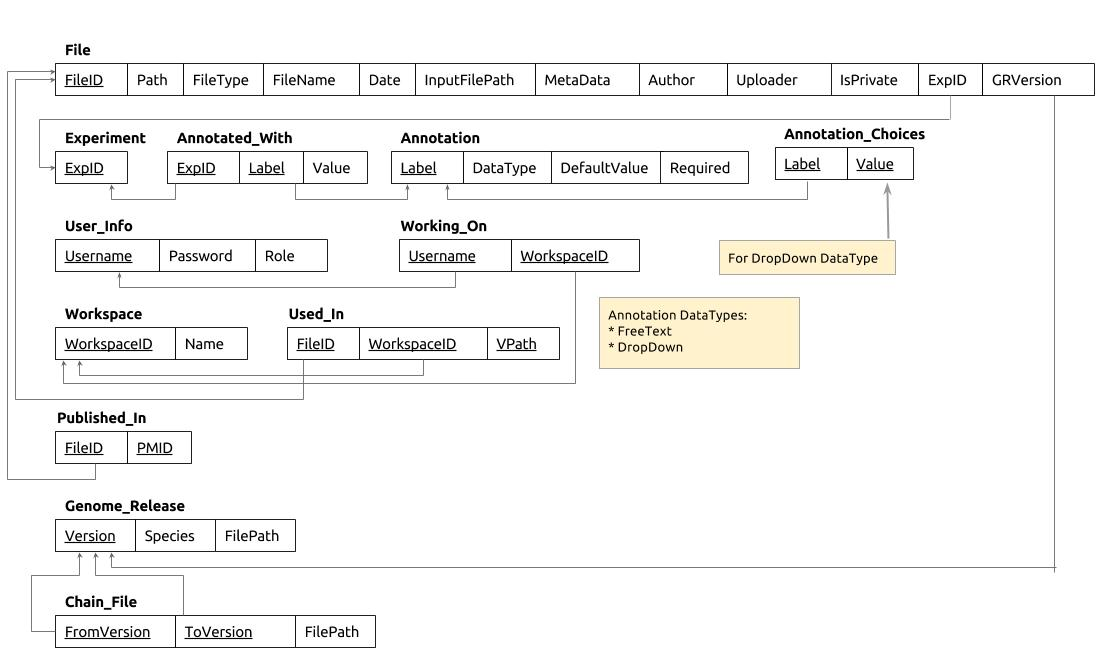
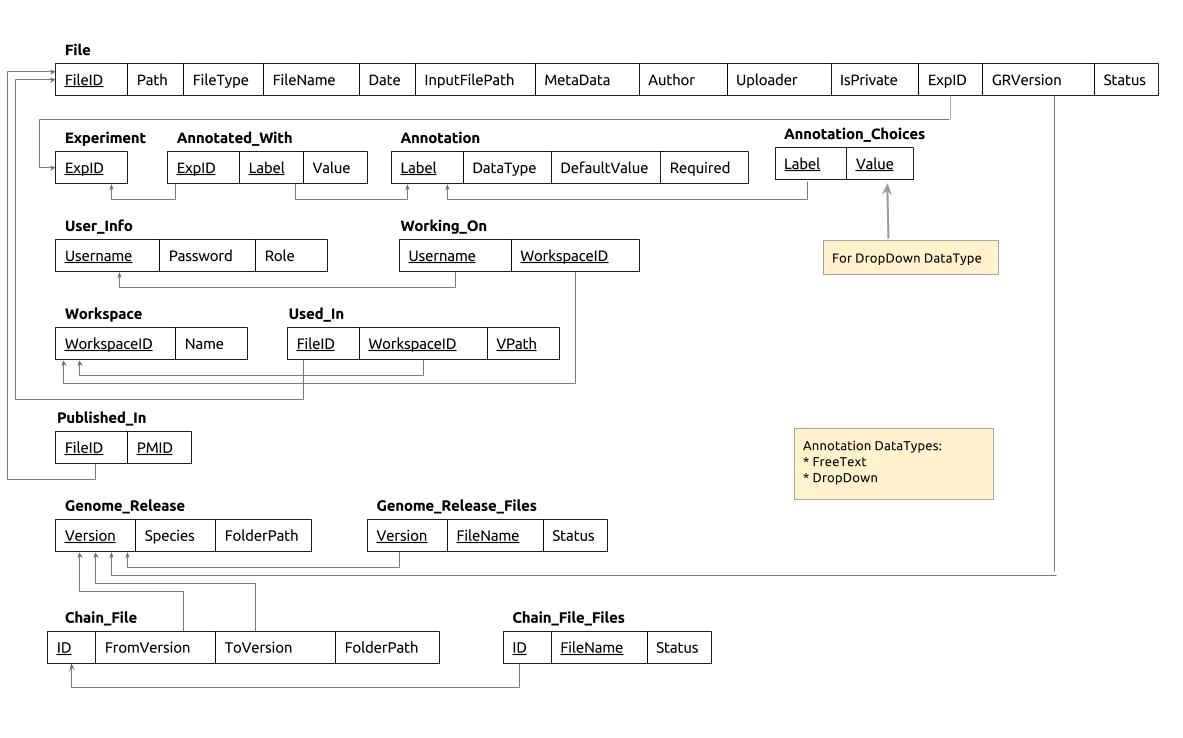
The final documentationparts for sprint 3//Datastoragegroup.

diff --git a/system_design/dat_systemdesign.tex b/system_design/dat_systemdesign.tex
@@ -1,5 +1,76 @@
-Our system for the file storage is basically built up with a database and a file system, where the header information of a file is stored in the database and the real file is stored in the filesystem. A filepath string is stored in the database as “path”, so the user can find where the actual file is stored in the filesystem. You can see the database design in the schema below (\refer{fig:dat_databaseSchema} ). \\
+%
+% Contains the systemdesign part, where we bring up the communication that might be hard to learn just by looking at the class methods name, where for example methods mut be called in a specific way.
+% Mattias Hinnerson
+% 2014-05-09 16:00
+%
+% Version 1.0
+%
 
+\documentclass[a4paper]{report}
+
+\usepackage[english]{babel}
+\usepackage[T1]{fontenc}
+\usepackage[utf8]{inputenc}
+\usepackage{amsmath}
+\usepackage{graphicx}
+\usepackage{pifont}
+\usepackage{hyperref}
+\usepackage{listings}
+\usepackage[section]{placeins}
+\usepackage[usenames,dvipsnames,svgnames,table]{xcolor}
+%DETTA PAKETET NEDAN MÅSTE FINNAS MED FÖR ATT BILDPOSITION SKA BLI RÄTT, OSKAR, SE DETTAAAA!!!!!!!!!!!!! :D:D:D :P :P :(
+\usepackage{float}
+
+\lstdefinestyle{customc}{
+  belowcaptionskip=1\baselineskip,
+  breaklines=true,
+  frame=L,
+  xleftmargin=\parindent,
+  language=C,
+  showstringspaces=false,
+  basicstyle=\footnotesize\ttfamily,
+  keywordstyle=\bfseries\color{green!40!black},
+  commentstyle=\itshape\color{purple!40!black},
+  identifierstyle=\color{blue},
+  stringstyle=\color{orange},
+}
+
+\lstdefinestyle{customsh}{
+  belowcaptionskip=1\baselineskip,
+  breaklines=true,
+  frame=L,
+  xleftmargin=\parindent,
+  language=C,
+  showstringspaces=false,
+  basicstyle=\footnotesize\ttfamily,
+  keywordstyle=\bfseries\color{green!40!black},
+  commentstyle=\itshape\color{purple!40!black},
+  identifierstyle=\color{blue},
+  stringstyle=\color{orange},
+}
+
+\newcommand{\appName}{\textit{Genomizer}}
+\newcommand{\addImage}[1]{\centering\includegraphics[width=\textwidth, keepaspectratio=true]{#1}}
+\newcommand{\addScaledImage}[2]{\centering\includegraphics[scale=#1]{#2}}
+\newcommand{\addImageVertical}[1]{\centering\includegraphics[height=\textwidth, angle=90, keepaspectratio=true]{#1}}
+\newcommand{\addScaledImageVertical}[2]{\centering\includegraphics[scale=#1, angle=90]{#2}}
+\newcommand{\refer}[1]{\autoref{#1}}
+\newcommand{\addCode}[3][c]{\lstinputlisting[caption=#3, escapechar=, style=custom#1]{#2}}
+\newcommand{\filepath}[1]{\texttt{#1}}
+\newcommand{\click}[1]{\ding{43} \textbf{\textit{{#1}}}}
+\newcommand{\term}[1]{\textit{#1}}
+
+\setcounter{secnumdepth}{5}
+
+\setlength{\parindent}{0pt}
+\setlength{\parskip}{10pt}
+
+\begin{document}
+
+\section{System Design}
+
+Our system for the file storage is basically built up with a database and a file system, where the header information of a file is stored in the database and the real file is stored in the filesystem. A filepath string is stored in the database as “path”, so the user can find where the actual file is stored in the filesystem. You can see the database design in the schema below (\refer{fig:dat_databaseSchema} ). \\
+\\
 Note that this section only describes the advanced system design that needs further explanation than just reading the code. Also note that it exists some javadocumentation that explains all methods in each class further deeper and more specific than this documentation that might be useful for those that will continue developing this system. Those can be found in the same file directory as the program, in the sub dir "/doc".
 
 \begin{figure}[htb]
@@ -8,13 +79,13 @@ Note that this section only describes the advanced system design that needs furt
 \label{fig:dat_databaseSchema}
 \end{figure}
 
-\underline{Comments about the database design:}
-
+\underline{Comments about the database design:}\\
+\\
 * FileID is a unique number for a specific file. It will be autogenerated by the database when you insert one file row.\\
-* Path is where the actual file is stored in the filesystem, example:
-
-\centerline{$home/data/experiment_1/raw/rawFile1.raw$}
-
+* Path is where the actual file is stored in the filesystem, example:\\
+\\
+\centerline{$home/data/experiment_1/raw/rawFile1.raw$}\\
+\\
 Since many files are stored in pairs, the InputFilePath is the path to where the other file pair  is stored.\\
 * MetaData is the arguments used when converting. \\
 * IsPrivate is a boolean (T or F) for making the file private or not.\\
@@ -41,16 +112,35 @@ Since many files are stored in pairs, the InputFilePath is the path to where the
     Species & Fly \\ \hline
   \end{tabular}
 \end{center}
+* The "Genome Release" table stores information about each stored genome release file, but the "Genome Release Files" table stores information about its convertion status, which at the moment could be "done","processing", "Pending", "Aborted". This table only exist for the Gui to being able to keep track of all the queued convertions.\\
+* The "Chain File" table keep information about stored chain files, and the "chain file files" table stores information about all the current queued chain convertions.\\
+NOTE: The tables "Working On", "Workspace", "Used In", and "Publihed in" has not been implemented yet but is planned to exist in the final version of the program. Those tables are used to connect files to a workspace of a user or users. But the connection is only a reference to where the file is actually stored. 
 
-\subsubsection{Methods description}
-Below is some interaction processes described and what happens in the \term{database\-Accessor} class that needs further description than just viewing the class or the javaDoc.\\
+\subsection{System overview:}
+The datastorage part of the system is built up of many classes that work together, but there is only one class that connects all subclasses and should be used by other parts of the genomizer program. This "front door" class is called "DatabaseAccessor.java". On the next page there are two uml diagrammes visible (\refer{fig:dat_umlPart1} and \refer{fig:dat_umlPart2} ) that describes all the classes in the datastorage system and how they are connected to each other.
+\newpage
+\begin{figure}[H]
+\addImage{dat_Uml3_part1.jpg}
+\caption{The first part of the UML diagramme for the datastorage part of the genomizer program.}
+\label{fig:dat_umlPart1}
+\end{figure}
+
+\newpage
+\begin{figure}[H]
+\addImage{dat_Uml3_part2.jpg}
+\caption{The second part of the UML diagramme for the datastorage part of the genomizer program.}
+\label{fig:dat_umlPart2}
+\end{figure}
+\newpage
+\subsection{Method description:}
+Below is some interaction processes described and what happens in the databaseAccessor class that needs further description than just viewing the class or the javaDoc.\\
 \\
 \underline{GetExperiment:} Will find a specific experiment from one experimentID, from the database and will return an experiment object for that experiment. The object will contain information about the experiment id, experiment annotations connected to that experiment, and all files connected to that experiment with their headers. The object contains both setter and getter methods. \\
 \\
 \underline{Adding one experiment step by step:}
 There are some steps that need to be done in the right order to be able to add one experiment into the database. The order is as follows:\\
 \\
-1: First you will need to call the "addExperiment" method. It will add one experiment to the database witout any annotations set to that experiment. 
+1: First you will need to call the "addExperiment" method. It will add one experiment to the database witout any annotations set to that experiment. If you try to add one experiment that already exist then the addition will be refused and one exception will be thrown.
 
 2: Then you add the annotations in general that should exist in the database.This can be done in many different methods depending on what purpose the annotation should have. Those are:\\
 \\
@@ -63,12 +153,8 @@ c) AddDropDownAnnotationValue: If the method above fail because that annotation 
 3: Once the annotation is set, you can connect the experiment with the annotations. This is done by calling the method "annotateExperiment". It is also here the FreeText annotations stores its values.\\
 \\
 Now the experiment should be in the database with annotation values, and is now ready to have files added to it.\\
-\\
-\underline{Changes to Annotations:} The possible methods for changing existing annotations are:\\
-\\
-* ChangeAnnotationLabel: changes one entire label in the database.\\Example: "Sex, Tissue, etc.".\\
-\\
-* ChangeAnnotationValue: change one value for a specific annotation label.\\Example: "male,female,fly,etc.".\\
+\newpage
+\underline{Get methods:}\\
 \\
 * GetChoices: Gets you all the available annotation choices connected to one label that you send in as inparameter. Example is "sex" that might return a list with values "Male,Female,Unisex,Unknown".\\
 \\
@@ -80,12 +166,34 @@ Now the experiment should be in the database with annotation values, and is now 
 \\
 * GetAnnotationObjects: Same as getAnnotationObject but it returns a list of annotation objects from a list of annotation labels.\\
 \\
+\\
+\underline{Change Methods:}\\
+\\
+* ChangeAnnotationLabel: changes one entire label in the database.\\Example: "Sex, Tissue, etc.".\\
+\\
+* ChangeAnnotationValue: change one value for a specific annotation label.\\Example: "male,female,fly,etc.".\\
+\\
+* UpdateExperiment: Updates one annotation for one specific experiment. Example: "experiment1, species, human" can be changed to "experiment1, species, Fly". Note that the new label must exist in the "Annotation" table.\\
+\\
+* ResetPassword: reset the password for one user to a new password. \\
+\\
+\underline{Remove methods:} All the remove methods will delete both the database entry and the physical files when called. These are the following remove methods that exist:\\
+\\
 * DeleteAnnotation: Deletes an entire annotation from the database. Since the database is configured to delete on cascade, all annotation choices connected to that annotation label will be removed, also the connection to the experiments with that annotation label.\\
 \\
 * RemoveAnnotationValue: Removes a single annotation value connected to a label, for example: "fly", or "arm".\\
-\newpage
-\underline{Adding files:} To add a file you will need to have an experiment added before you call the "addNewFile" method. Some files uses multiple files like raw data so make sure that you upload them together and that the "InputFilePath" points to their other file pair.\\
+\\
+* RemoveGenomeRelease: Removes a whole genome release. But you must first make sure that all files using that genome releases is deleted so no databae dependenies exist. Also you must first delete the entries for that speific genome release in the tables "Genome Release Files", "Chain File" and "Chain File Files". This is done by calling the methods "RemoveReleaseFiles", "RemoveChainFile" or "RemoveChainFileFiles" respectively. \\
+\\
+* DeleteFile: deletes both the entry for a file and the actual data from the server. This can be done by two methods with different parameters,the first by file path, the other by fileID.\\
+\\
+* DeleteUser: delete one user from the database and he or she will not be able to use the program any more.\\
+\\
+\underline{Adding files:}\\
+To add a file you will need to have an experiment added before you call the "addNewFile" method. Some files uses multiple files like raw data so make sure that you upload them together and that the "InputFilePath" points to their other file pair.\\
 \\
 \underline{Removing files:} Also here, if you delete one file that comes as an file pair, you must also delete the other file thorugh this method.\\
 
-\underline{Other:} There exist other methods as well, but these does not need any further description then what is written in the java class DataBaseAccessor. Down bellow follows a more overall description of each class that is needed in the datastorage part of the system.\\
+\underline{Other:} There exist other methods as well, but these does not need any further description then what is written in the java class DataBaseAccessor.\\
+
+\end{document}

diff --git a/implementation/dat_implementation.tex b/implementation/dat_implementation.tex
@@ -1,22 +1,111 @@
-The following text describes the different classes the server uses to cummunicate with the database.
+%
+% Testdokument för rapport PVT 14
+%
+% Detta dokument har skapats för att ge en möjlighet att testa rapportfiler. Den header som definieras här är 
+% lik den som kommer vara i det riktiga dokumentet, vilket ger en uppfattning om hur gruppernas olika delar 
+% kommer % att se ut. För att testa era .tex-filer kan de inkluderas de detta dokument genom \input{filnamn} 
+% (ange ej .tex).  
+%
+% Oskar Mårtensson 
+% 2014-05-09 12:07
+%
+% Version 9.0
+%
 
-\subsubsection{Annotation}
+\documentclass[a4paper]{report}
+
+\usepackage[english]{babel}
+\usepackage[T1]{fontenc}
+\usepackage[utf8]{inputenc}
+\usepackage{amsmath}
+\usepackage{graphicx}
+\usepackage{pifont}
+\usepackage{hyperref}
+\usepackage{listings}
+\usepackage[section]{placeins}
+\usepackage[usenames,dvipsnames,svgnames,table]{xcolor}
+
+\makeatletter
+\renewcommand\paragraph{%
+   \@startsection{paragraph}{4}{0mm}%
+      {-\baselineskip}%
+      {.5\baselineskip}%
+      {\normalfont\normalsize\bfseries}}
+      
+\renewcommand\subparagraph{%
+   \@startsection{paragraph}{4}{0mm}%
+      {-\baselineskip}%
+      {.5\baselineskip}%
+      {\normalfont\normalsize\bfseries}}
+\makeatother
+
+\lstdefinestyle{customc}{
+  belowcaptionskip=1\baselineskip,
+  breaklines=true,
+  frame=L,
+  xleftmargin=\parindent,
+  language=C,
+  showstringspaces=false,
+  basicstyle=\footnotesize\ttfamily,
+  keywordstyle=\bfseries\color{green!40!black},
+  commentstyle=\itshape\color{purple!40!black},
+  identifierstyle=\color{blue},
+  stringstyle=\color{orange},
+}
+
+\lstdefinestyle{customsh}{
+  belowcaptionskip=1\baselineskip,
+  breaklines=true,
+  frame=L,
+  xleftmargin=\parindent,
+  language=C,
+  showstringspaces=false,
+  basicstyle=\footnotesize\ttfamily,
+  keywordstyle=\bfseries\color{green!40!black},
+  commentstyle=\itshape\color{purple!40!black},
+  identifierstyle=\color{blue},
+  stringstyle=\color{orange},
+}
+
+\newcommand{\appName}{\textit{Genomizer}}
+\newcommand{\addImage}[1]{\centering\includegraphics[width=\textwidth, keepaspectratio=true]{#1}}
+\newcommand{\addScaledImage}[2]{\centering\includegraphics[scale=#1]{#2}}
+\newcommand{\addImageVertical}[1]{\centering\includegraphics[height=\textwidth, angle=90, keepaspectratio=true]{#1}}
+\newcommand{\addScaledImageVertical}[2]{\centering\includegraphics[scale=#1, angle=90]{#2}}
+\newcommand{\refer}[1]{\autoref{#1}}
+\newcommand{\addCode}[3][c]{\lstinputlisting[caption=#3, escapechar=, style=custom#1]{#2}}
+\newcommand{\filePath}[1]{\texttt{#1}}
+\newcommand{\click}[1]{\ding{43} \textbf{\textit{{#1}}}}
+\newcommand{\term}[1]{\textit{#1}}
+
+\setcounter{secnumdepth}{5}
+
+\setlength{\parindent}{0pt}
+\setlength{\parskip}{10pt}
+
+\begin{document}
+
+\section{Implementation}
+The following text describes the different classes the server uses to cummunicate with the database.
+\subsection{Annotation}
 When a user wants the properties of an \term{annotation} they will retrieve this object. It holds information about the data type, label, forced annotation, default value and annotation choices for drop down menus. With this object the graphical interfaces can set up a search view dynamically.
 
-\subsubsection{Experiment}
+\subsection{Experiment}
 A container of an experiments annotations and their values. The annotation labels and values are contained in a \term{hashmap} with label as key. All files corresponding to the actual experiment lies in a list of \term{FileTuple} objects.
 
-\subsubsection{FileTuple}
+\subsection{FileTuple}
 A simple class that holds all information of a file in variables found in the database. Holds links for download and upload of the specific file.
 
-\subsubsection{FilePathGenerator}
-When a user wants to write or download a file, the \term{FilePathGenerator} class will take care of giving the server a file path. When a new experiment is added to the database, FPG is called and it will create a folder for the experiment and sub folders for the different file types. When a new \term{genome version} is to be added to the database, FPG will create file paths to a folder folder outside of the experiment folders. They are divided into folders corresponding to species.  This is done to give access to genome files independent of experiment id's. Chain files are given paths to sub folders within the species folders in the genome root folder.
+\subsection{FilePathGenerator}
+When a user wants to write or download a file, the \term{FilePathGenerator} class will take care of giving the server a file path. When a new experiment is added to the database, FPG is called and it will create a folder for the experiment and sub folders for the different file types. When a new \term{genome version} is to be added to the database, FPG will create file paths to a folder outside of the experiment folders. They are divided into folders corresponding to species.  This is done to give access to genome files independent of experiment id's. Chain files are given paths to sub folders within the species folders in the genome root folder.
 
-\subsubsection{PubMedToSQLConverter}
+\subsection{PubMedToSQLConverter}
 Converts a string with \term{pubMed} notations and returns an \term{SQL query}. PubMed searches can take this shape: \texttt{raw1[FileType] AND Per[Author]} which means \term{search for all raw files that Per created}. The user enters the values with variables in a logical sequence and can add parentheses for further filtering. \term{AND}, \term{OR} and \term{NOT} are commands that can be used in the sequence. The converter can both be used for file- and experiment searches. All the variables in the pubMed string are converted to the \texttt{WHERE} section of an SQL query. When a method is called in the database API (DatabaseAccessor), the first half of the query will be combined with the one generated by the converter to form a full query. Depending on which method is called in the \term{API} (what the user wants to do), the first half of the query will vary.
 
-\subsubsection{DatabaseAccessor}
-A class that serves as API for the server for database access. It handles all connections and queries to the database. The methods simplifies queries to the database by taking as few parameters as possible to accomplish a sufficient database search. The returns of the different methods are made as simple as possible depending on the amount of data generated. If only one column is to be returned after a search, a list is sufficient. When a user wants information on several files, lists of objects will be returned with all data. \term{Prepared Statements} are created from a combination of queries and variables to avoid SQL injections. Methods that have some resemblance are grouped together for easier navigation in the API.
+\subsection{DatabaseAccessor}
+A class that serves as API for the server for database access. It handles all connections and queries to the database. The methods simplifies queries to the database by taking as few parameters as possible to accomplish a sufficient database search. The returns of the different methods are made as simple as possible depending on the amount of data generated. If only one column is to be returned after a search, a list is sufficient. When a user wants information on several files, lists of objects will be returned with all data. \term{Prepared Statements} are created from a combination of queries and variables to avoid SQL injections. Methods that have some resemblance are grouped together for easier navigation in the API. The class itself generates no database queries. This is done in other smaller classes divided into different types of tasks. The class is large and can't be shortened since it's the API front to the database.
 
-\subsubsection{Testing}
-All methods are created with \term{Test Driven Development} (TDD). Testing is done before implementation. The better part of the testing is creating queries that gives the right results. All queries have at at least one test to verify it's functionality. The tests are run in a test suite so every method in the whole program can be tested in one run. Database methods have setup and teardown methods for setting up and resetting the database between the different tests. This is done to prevent a test to influence the result of another test.
+\section{Testing}
+All methods are created with \term{Test Driven Development} (TDD). Testing is done before implementation. The better part of the testing is creating queries that gives the right results. All queries have at at least one test to verify it's functionality. The tests are run in a test suite so every method in the whole program can be tested in one run. Database methods have setup and teardown methods for setting up and resetting the database between the different tests. This is done to prevent a test to influence the result of another test. Stress tests are also implemented with the goal to determine functionality by simulating multiple users working in parallel.
+
+\end{document}

diff --git a/deployment/dat_deploy.tex b/deployment/dat_deploy.tex
@@ -1,4 +1,72 @@
-The following guide assumes access to a server with postgresql installed. If you do not yet have a database, username and password for \appName\ to use proceed to \emph{Set up postgresql account}.
+%
+% Testdokument för rapport PVT 14
+%
+% Detta dokument har skapats för att ge en möjlighet att testa rapportfiler. Den header som definieras här är 
+% lik den som kommer vara i det riktiga dokumentet, vilket ger en uppfattning om hur gruppernas olika delar 
+% kommer % att se ut. För att testa era .tex-filer kan de inkluderas de detta dokument genom \input{filnamn} 
+% (ange ej .tex).  
+%
+% Oskar Mårtensson 
+% 2014-05-07 14:15
+%
+% Version 3.0
+%
+
+\documentclass[a4paper]{report}
+
+\usepackage[english]{babel}
+\usepackage[T1]{fontenc}
+\usepackage[utf8]{inputenc}
+\usepackage{amsmath}
+\usepackage{graphicx}
+\usepackage{pifont}
+\usepackage{hyperref}
+\usepackage{listings}
+\usepackage[section]{placeins}
+\usepackage[usenames,dvipsnames,svgnames,table]{xcolor}
+
+\lstdefinestyle{customc}{
+  belowcaptionskip=1\baselineskip,
+  breaklines=true,
+  frame=L,
+  xleftmargin=\parindent,
+  language=C,
+  showstringspaces=false,
+  basicstyle=\footnotesize\ttfamily,
+  keywordstyle=\bfseries\color{green!40!black},
+  commentstyle=\itshape\color{purple!40!black},
+  identifierstyle=\color{blue},
+  stringstyle=\color{orange},
+}
+
+\lstdefinestyle{customsh}{
+  belowcaptionskip=1\baselineskip,
+  breaklines=true,
+  frame=L,
+  xleftmargin=\parindent,
+  language=C,
+  showstringspaces=false,
+  basicstyle=\footnotesize\ttfamily,
+  keywordstyle=\bfseries\color{green!40!black},
+  commentstyle=\itshape\color{purple!40!black},
+  identifierstyle=\color{blue},
+  stringstyle=\color{orange},
+}
+
+\newcommand{\appName}{\textbf{Genomizer}}
+\newcommand{\addImage}[1]{\includegraphics[width=\textwidth, keepaspectratio=true]{#1}}
+\newcommand{\addImageVertical}[1]{\includegraphics[height=\textwidth, angle=90, keepaspectratio=true]{#1}}
+\newcommand{\refer}[1]{\autoref{#1}}
+\newcommand{\addCode}[3][c]{\lstinputlisting[caption=#3, escapechar=, style=custom#1]{#2}}
+\newcommand{\filepath}[1]{\texttt{#1}}
+\newcommand{\click}[1]{\ding{43} \textbf{\textit{{#1}}}}
+
+\setlength{\parindent}{0pt}
+\setlength{\parskip}{10pt}
+\begin{document}
+
+  \subsection{Database deployment}
+    The following guide assumes access to a server with postgresql installed. If you do not yet have a database, username and password for \appName\ to use proceed to \emph{Set up postgresql account}.
 
     This guide was written using Ubuntu 14.04 LTS (GNU/Linux 3.13.0-24-generic i686) and postgres-9.3.4.
 
@@ -142,3 +210,7 @@ host    all    all    127.0.0.1/32    md5
     \end{enumerate}
 
 The \appName\ database is now ready to use.
+
+  
+
+\end{document}
